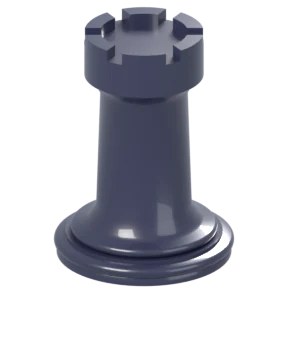
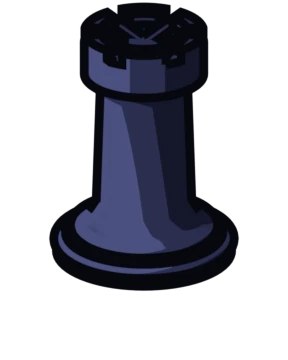
Toon-rendered pieces with outlines, darker sage board for contrast

diff --git a/index.html b/index.html
@@ -17,7 +17,7 @@
     --bg1:#e8f5ff; --bg2:#fff6e8; --card:#fff; --ink:#2d2a3e; --muted:#7a7590; --line:#ece6f5;
     --accent:#ff7a3d; --accent-d:#e5602a; --accent2:#fff0e6;
     --ok:#2fa968; --ok2:#e6f8ee; --warn:#e2453c; --warn2:#ffecea; --blue:#4a8cff;
-    --light:#fdf3dc; --dark:#8bbf73;
+    --light:#c3d9a5; --dark:#6f9f59;
     --bs:max(250px,min(calc(100vw - 16px),560px,calc(100svh - 290px)));
   }
   *{box-sizing:border-box;-webkit-tap-highlight-color:transparent}
@@ -63,7 +63,7 @@
 
   /* board */
   .board{width:var(--bs);height:var(--bs);display:grid;grid-template-columns:repeat(8,1fr);grid-template-rows:repeat(8,1fr);border-radius:16px;
-    border:5px solid #6d9a5b;box-shadow:0 6px 0 #557c45,0 12px 28px rgba(40,80,30,.25);user-select:none;-webkit-user-select:none;touch-action:manipulation}
+    border:5px solid #557f43;box-shadow:0 6px 0 #3f6531,0 12px 28px rgba(40,80,30,.25);user-select:none;-webkit-user-select:none;touch-action:manipulation}
   .board{position:relative}
   .matbox{display:flex;align-items:center;gap:8px 14px;flex-wrap:wrap;background:#fff;border-radius:16px;padding:6px 12px;box-shadow:0 3px 0 var(--line);animation:pop .25s}
   .matgrp{display:flex;align-items:center;gap:4px}
@@ -91,13 +91,11 @@
   .sq.c0{border-top-left-radius:11px}.sq.c7{border-top-right-radius:11px}.sq.c56{border-bottom-left-radius:11px}.sq.c63{border-bottom-right-radius:11px}
   .sq.c0::before{border-top-left-radius:11px}.sq.c7::before{border-top-right-radius:11px}.sq.c56::before{border-bottom-left-radius:11px}.sq.c63::before{border-bottom-right-radius:11px}
   .pc{display:inline-block;width:1em;height:1.25em;font-size:32px;background:var(--img) center/100% 100% no-repeat;vertical-align:middle;pointer-events:none}
-  .pc.w{filter:drop-shadow(0 0 .6px rgba(40,30,70,.75)) drop-shadow(0 0 .6px rgba(40,30,70,.5))}
   .sq .pc{position:absolute;left:0;right:0;bottom:0;width:auto;height:125%;z-index:1;background:none;filter:none;font-size:inherit}
   .sq .pc::before{content:"";position:absolute;left:calc(50% - var(--sw,.58)*50%);width:calc(var(--sw,.58)*100%);bottom:24%;height:calc(var(--sw,.58)*22%);
     border-radius:50%;background:radial-gradient(closest-side,rgba(30,40,20,.42),rgba(30,40,20,.18) 60%,transparent);transition:transform .25s cubic-bezier(.175,.885,.32,1.275),opacity .25s}
   .sq .pc::after{content:"";position:absolute;inset:0;background:var(--img) center/100% 100% no-repeat;transform-origin:50% 70%;
     transition:transform .25s cubic-bezier(.175,.885,.32,1.275)}
-  .sq .pc.w::after{filter:drop-shadow(0 0 .7px rgba(40,30,70,.8)) drop-shadow(0 0 .7px rgba(40,30,70,.45))}
   .sq.sel .pc{z-index:3}
   .sq.sel .pc::after{transform:translateY(-11%) scale(1.07)}
   .sq.sel .pc::before{transform:scale(.72);opacity:.55}
@@ -113,7 +111,7 @@
   @media (prefers-reduced-motion: reduce){.sq .pc::after,.sq .pc::before{transition:none}.sq.check .pc::after{animation:none}}
   .coord{position:absolute;font-size:10px;font-weight:800;z-index:2;pointer-events:none;opacity:.8}
   .coord.r{top:2px;left:3px}.coord.f{bottom:1px;right:3px}
-  .sq.light .coord{color:#6d9a5b}.sq.dark .coord{color:#fdf3dc}
+  .sq.light .coord{color:#4c7a3a}.sq.dark .coord{color:#e8f3dc}
   .shake{animation:shake .35s}
   @keyframes shake{25%{transform:translateX(-7px)}50%{transform:translateX(7px)}75%{transform:translateX(-3px)}}
   .star{position:absolute;z-index:2;font-size:calc(var(--bs) / 8 * .55);color:#ffc21a;text-shadow:0 2px 0 #e09a00;pointer-events:none;animation:bob 1.4s ease-in-out infinite}

diff --git a/sw.js b/sw.js
@@ -1,6 +1,6 @@
 // 오프라인용 서비스 워커: 한 번 열어 두면 인터넷이 없어도 열려요.
 // 인터넷이 될 때는 항상 새 버전을 받아 와서 저장하고, 안 되면 저장해 둔 것을 보여 줘요.
-const CACHE = 'chess-v2';
+const CACHE = 'chess-v3';
 const FILES = ['./', './index.html', './manifest.json', './icon-180.png', './icon-192.png', './icon-512.png', ...['p','n','b','r','q','k'].flatMap(t => ['w','b'].map(c => './pieces/' + c + t + '.webp'))];
 
 self.addEventListener('install', e => {

diff --git a/pieces-blender.py b/pieces-blender.py
@@ -6,6 +6,8 @@ ONLY = sys.argv[sys.argv.index('--')+2] if len(sys.argv) > sys.argv.index('--')+
 os.makedirs(OUT, exist_ok=True)
 ELEV = math.radians(24)
 KING_H = 0.92
+LINE = 3.0
+LINECOL = (0.03, 0.03, 0.05)
 TARGET = {'p': .44, 'n': .58, 'b': .61, 'r': .67, 'q': .70, 'k': .74}
 W, H = 288, 360
 
@@ -69,7 +71,7 @@ def build(t):
     elif t == 'b':
         prof = base(.31) + [(.175, .15), (.12, .41), (.20, .445), (.205, .47), (.13, .49), (.10, .51), (.13, .54), (.165, .60), (.17, .65), (.15, .70), (.11, .75), (.06, .785), (.03, .795)] + arc(.82, .03, -60, 90, 8)
         ob = lathe('bishop', prof); parts.append(ob)
-        cut(ob, box('slit', (.32, .5, .03), (.09, 0, .70), (0, math.radians(-50), 0)))
+        cut(ob, box('slit', (.32, .5, .03), (.09*math.cos(math.radians(-62)), .09*math.sin(math.radians(-62)), .70), (0, math.radians(-50), math.radians(-62))))
     elif t == 'q':
         prof = base(.34) + [(.205, .15), (.13, .50), (.215, .545), (.215, .575), (.14, .60), (.15, .66), (.225, .80), (.205, .82), (.15, .825), (.09, .85), (.075, .87)] + arc(.905, .042, -50, 90, 8)
         parts.append(lathe('queen', prof))
@@ -106,22 +108,39 @@ def build(t):
         for ob in parts: ob.rotation_euler.z += math.radians(-28)
     return parts
 
+def srgb(h):
+    c = [int(h[i:i+2], 16)/255 for i in (0, 2, 4)]
+    return tuple(x/12.92 if x <= .04045 else ((x+.055)/1.055)**2.4 for x in c)
+
+# 툰 재질: 빛의 양을 3단계 색으로 끊어 칠하고(하이라이트·반사 없음), 외곽선은 Freestyle로
+def toon(name, cols, stops=(0.0, 0.30, 0.62)):
+    m = bpy.data.materials.new(name); m.use_nodes = True
+    nt = m.node_tree; nt.nodes.clear()
+    out = nt.nodes.new('ShaderNodeOutputMaterial'); dif = nt.nodes.new('ShaderNodeBsdfDiffuse')
+    s2r = nt.nodes.new('ShaderNodeShaderToRGB'); ramp = nt.nodes.new('ShaderNodeValToRGB'); em = nt.nodes.new('ShaderNodeEmission')
+    ramp.color_ramp.interpolation = 'CONSTANT'
+    el = ramp.color_ramp.elements
+    while len(el) < len(cols): el.new(0.5)
+    for e, pos, c in zip(el, stops, cols): e.position = pos; e.color = (*srgb(c), 1)
+    nt.links.new(dif.outputs[0], s2r.inputs[0]); nt.links.new(s2r.outputs[0], ramp.inputs[0])
+    nt.links.new(ramp.outputs[0], em.inputs[0]); nt.links.new(em.outputs[0], out.inputs[0])
+    return m
+
 def materials(color):
-    def mat(name, rgb, rough, coat=.3):
-        m = bpy.data.materials.new(name); m.use_nodes = True
-        b = m.node_tree.nodes.get('Principled BSDF')
-        b.inputs['Base Color'].default_value = (*rgb, 1)
-        b.inputs['Roughness'].default_value = rough
-        for k, v in (('Coat Weight', coat), ('Subsurface Weight', .08 if color == 'w' else 0), ('Specular IOR Level', .5)):
-            if k in b.inputs: b.inputs[k].default_value = v
-        return m
     if color == 'w':
-        return mat('body', (0.80, 0.70, 0.54), .42), mat('eye', (0.08, 0.06, 0.1), .2)
-    return mat('body', (0.022, 0.024, 0.06), .32, .6), mat('eye', (0.95, 0.9, 0.8), .2)
+        return toon('body', ('c2b29a', 'ebe1cd', 'fffcf4')), toon('eye', ('1b1830', '1b1830', '2d2a3e'))
+    return toon('body', ('15172b', '2b2e4f', '4b5080')), toon('eye', ('f4ecdc', 'f4ecdc', 'ffffff'))
 
 def scene():
     sc = bpy.context.scene
-    sc.render.engine = 'CYCLES'; sc.cycles.samples = 96; sc.cycles.use_denoising = True
+    sc.render.engine = 'BLENDER_EEVEE'
+    sc.render.use_freestyle = True; sc.render.line_thickness_mode = 'ABSOLUTE'; sc.render.line_thickness = LINE
+    vl = sc.view_layers[0]; vl.use_freestyle = True; fs = vl.freestyle_settings; fs.crease_angle = math.radians(128)
+    ls = fs.linesets[0] if fs.linesets else fs.linesets.new('L')
+    ls.select_by_visibility = True; ls.select_by_edge_types = True
+    ls.select_silhouette = True; ls.select_border = True; ls.select_crease = True; ls.select_external_contour = True
+    if ls.linestyle is None: ls.linestyle = bpy.data.linestyles.new('LS')
+    ls.linestyle.color = LINECOL; ls.linestyle.thickness = LINE
     sc.render.film_transparent = True
     sc.render.resolution_x, sc.render.resolution_y = W, H
     sc.view_settings.view_transform = 'Standard'
@@ -132,14 +151,9 @@ def scene():
     zt = 0.245/math.cos(ELEV); d = 10
     co.location = (0, -d*math.cos(ELEV), zt + d*math.sin(ELEV))
     co.rotation_euler = (math.pi/2 - ELEV, 0, 0)
-    def light(name, typ, energy, loc, size=1.0, color=(1, 1, 1)):
-        L = bpy.data.lights.new(name, typ); L.energy = energy; L.color = color
-        if typ == 'AREA': L.size = size
-        o = bpy.data.objects.new(name, L); sc.collection.objects.link(o); o.location = loc
-        o.rotation_euler = (Vector((0, 0, .45)) - Vector(loc)).to_track_quat('-Z', 'Y').to_euler()
-    light('key', 'AREA', 200, (-2.2, -2.6, 3.0), 2.2, (1, .97, .92))
-    light('fill', 'AREA', 45, (2.6, -2.2, 1.4), 2.5, (.85, .9, 1))
-    light('rim', 'AREA', 220, (1.2, 2.6, 2.2), 1.5, (1, 1, 1))
+    sun = bpy.data.lights.new('sun', 'SUN'); sun.energy = 3.0; sun.angle = math.radians(3)
+    so = bpy.data.objects.new('sun', sun); sc.collection.objects.link(so); so.rotation_euler = (math.radians(50), math.radians(-28), math.radians(-35))
+    bg.inputs[1].default_value = 0.25
 
 for t in 'pnbrqk':
     if ONLY and t not in ONLY: continue
@@ -159,7 +173,8 @@ for t in 'pnbrqk':
         for ob in parts:
             if ob.type == 'MESH':
                 ob.data.materials.clear(); ob.data.materials.append(eye if ob.get('eye') else body)
-        bpy.context.scene.view_settings.exposure = -0.35 if c == 'w' else 0.0
+        ls = bpy.context.scene.view_layers[0].freestyle_settings.linesets[0].linestyle
+        ls.color = srgb('2d2a3e') if c == 'w' else srgb('07080f')
         bpy.context.scene.render.filepath = os.path.join(OUT, f'{c}{t}.png')
         bpy.ops.render.render(write_still=True)
         print('done', c, t, round(top, 3))
